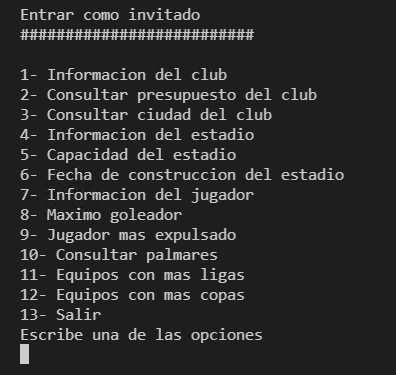
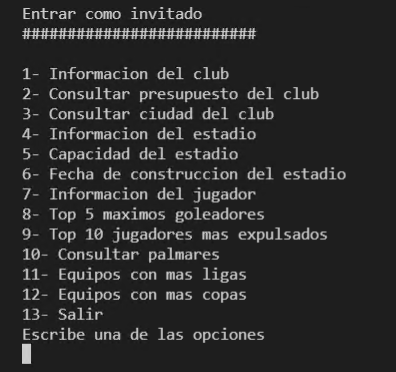
Añadida capturas del menu

Changed region(s): [[0.0303, 0.1774, 0.8788, 0.9758], [0.0303, 0.0, 0.6667, 0.1183], [0.0303, 0.1774, 0.0909, 0.2661]]

diff --git a/Furguito/src/main/java/es/iespuertolacruz/furguito/vista/FurguitoVista.java b/Furguito/src/main/java/es/iespuertolacruz/furguito/vista/FurguitoVista.java
@@ -6,7 +6,7 @@ import java.util.Scanner;
 public class FurguitoVista {
     private static final String INTRODUCIR_NUMERO = "Debe introducir un numero";
     private static final String SEPARADOR = "##########################\n";
-    private static final String ESCRIBE_OPCIONES = "Escribe una de las opciones";
+    private static final String ESCRIBE_OPCIONES = "Escribe una de las opciones:";
     private static final String ADMIN = "admin";
 
     public static void main(String[] args) {
@@ -34,9 +34,9 @@ public class FurguitoVista {
                         System.out.println(SEPARADOR);
                         String usuario = null;
                         String password = null;
-                        System.out.println("Introduzca el usuario");
+                        System.out.println("Introduzca el usuario:");
                         usuario = sn.next();
-                        System.out.println("Introduzca la contraseña");
+                        System.out.println("Introduzca la contraseña:");
                         password = sn.next();
                         if (!usuario.equals(ADMIN) && !password.equals(ADMIN)) {
                             System.out.println("Validacion incorrecta");
@@ -164,8 +164,8 @@ public class FurguitoVista {
             System.out.println("5- Capacidad del estadio");
             System.out.println("6- Fecha de construccion del estadio");
             System.out.println("7- Informacion del jugador");
-            System.out.println("8- Maximo goleador");
-            System.out.println("9- Jugador mas expulsado");
+            System.out.println("8- Top 5 maximos goleadores");
+            System.out.println("9- Top 10 jugadores mas expulsados");
             System.out.println("10- Consultar palmares");
             System.out.println("11- Equipos con mas ligas");
             System.out.println("12- Equipos con mas copas");
@@ -227,6 +227,8 @@ public class FurguitoVista {
                         break;
                     case 10:
                         System.out.println("Consultar palmares");
+                        System.out.println("Introduzca el nombre del equipo:");
+                        nombreEquipo = sn.next();
 
                         break;
                     case 11:

diff --git a/Furguito/src/test/java/es/iespuertolacruz/furguito/FurguitoAppTest.java b/Furguito/src/test/java/es/iespuertolacruz/furguito/FurguitoAppTest.java
@@ -5,16 +5,16 @@ import static org.junit.jupiter.api.Assertions.assertTrue;
 import org.junit.jupiter.api.BeforeEach;
 import org.junit.jupiter.api.Test;
 
-import es.iespuertolacruz.furguito.vista.FurguitoUserApp;
+import es.iespuertolacruz.furguito.vista.FurguitoVista;
 
 public class FurguitoAppTest {
 
-    FurguitoUserApp furguitoApp;
+    FurguitoVista furguitoApp;
 
     @BeforeEach
     public void setup() {
         if (furguitoApp == null) {
-            furguitoApp = new FurguitoUserApp();
+            furguitoApp = new FurguitoVista();
         }
     }
 
